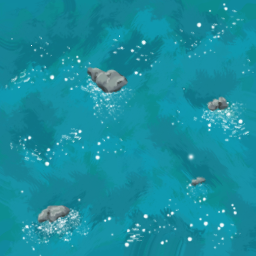
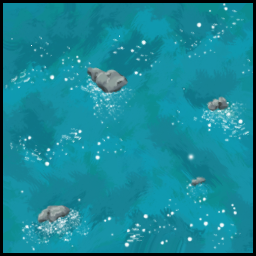
branch for board sprites, added grass + borders

Changed region(s): [[0.0, 0.0, 1.0, 1.0]]

diff --git a/MakingItBetterG55/src/application/BoardHandler.java b/MakingItBetterG55/src/application/BoardHandler.java
@@ -1,12 +1,13 @@
 package application;
 
+import java.util.Random;
+
 import javafx.animation.AnimationTimer;
 import javafx.scene.Node;
 import javafx.scene.effect.PerspectiveTransform;
 import javafx.scene.image.Image;
 import javafx.scene.image.ImageView;
 import javafx.scene.layout.Pane;
-import javafx.scene.shape.Polygon;
 
 public class BoardHandler {
 	private int shouldMove = 0;
@@ -66,14 +67,6 @@ public class BoardHandler {
 			data2[1]++;
 			float[] data3 = data.clone();
 			data3[0]++;
-			if (p instanceof Polygon) {
-				((Polygon) p).getPoints().setAll(new Double[] { (double) calculateBallPointPosition(data)[0],
-						(double) calculateBallPointPosition(data)[1], (double) calculateBallPointPosition(data1)[0],
-						(double) calculateBallPointPosition(data1)[1], (double) calculateBallPointPosition(data2)[0],
-						(double) calculateBallPointPosition(data2)[1], (double) calculateBallPointPosition(data3)[0],
-						(double) calculateBallPointPosition(data3)[1] });
-				;
-			}
 			if (p instanceof ImageView) {
 				PerspectiveTransform pT = (PerspectiveTransform) p.getEffect();
 				pT.setUlx((double) calculateBallPointPosition(data)[0]);
@@ -109,8 +102,14 @@ public class BoardHandler {
 		for (int i = 0; i < gridSize; i++) {
 			for (int j = 0; j < gridSize; j++) {
 				Node tile;
-				
-				Image image = new Image("/WaterTile.png", sideLengthScaler, sideLengthScaler, false, false);
+
+				Image image;
+				Random r = new Random();
+				if (r.nextFloat() > .5f) {
+					image = new Image("/GrassTile.png", sideLengthScaler, sideLengthScaler, false, false);
+				} else {
+					image = new Image("/WaterTile.png", sideLengthScaler, sideLengthScaler, false, false);
+				}
 				tile = new ImageView(image);
 				PerspectiveTransform pT = new PerspectiveTransform();
 				pT.setUlx((double) points[i][j][0]);
@@ -133,13 +132,13 @@ public class BoardHandler {
 				tile.setUserData(new float[] { i, j, sideLengthScaler, origin[0], origin[1], gridSize });
 			}
 		}
-		
+
 		Node tile;
-		
+
 		Image image = new Image("/TeacherBot.png", sideLengthScaler, sideLengthScaler, false, false);
 		tile = new ImageView(image);
-		int i =4;
-		int j =4;
+		int i = 4;
+		int j = 4;
 		PerspectiveTransform pT = new PerspectiveTransform();
 		pT.setUlx((double) points[i][j][0]);
 		pT.setUly((double) points[i][j][1]);
@@ -159,7 +158,7 @@ public class BoardHandler {
 
 		ball.getChildren().add(tile);
 		tile.setUserData(new float[] { i, j, sideLengthScaler, origin[0], origin[1], gridSize });
-		
+
 		return ball;
 	}
 
